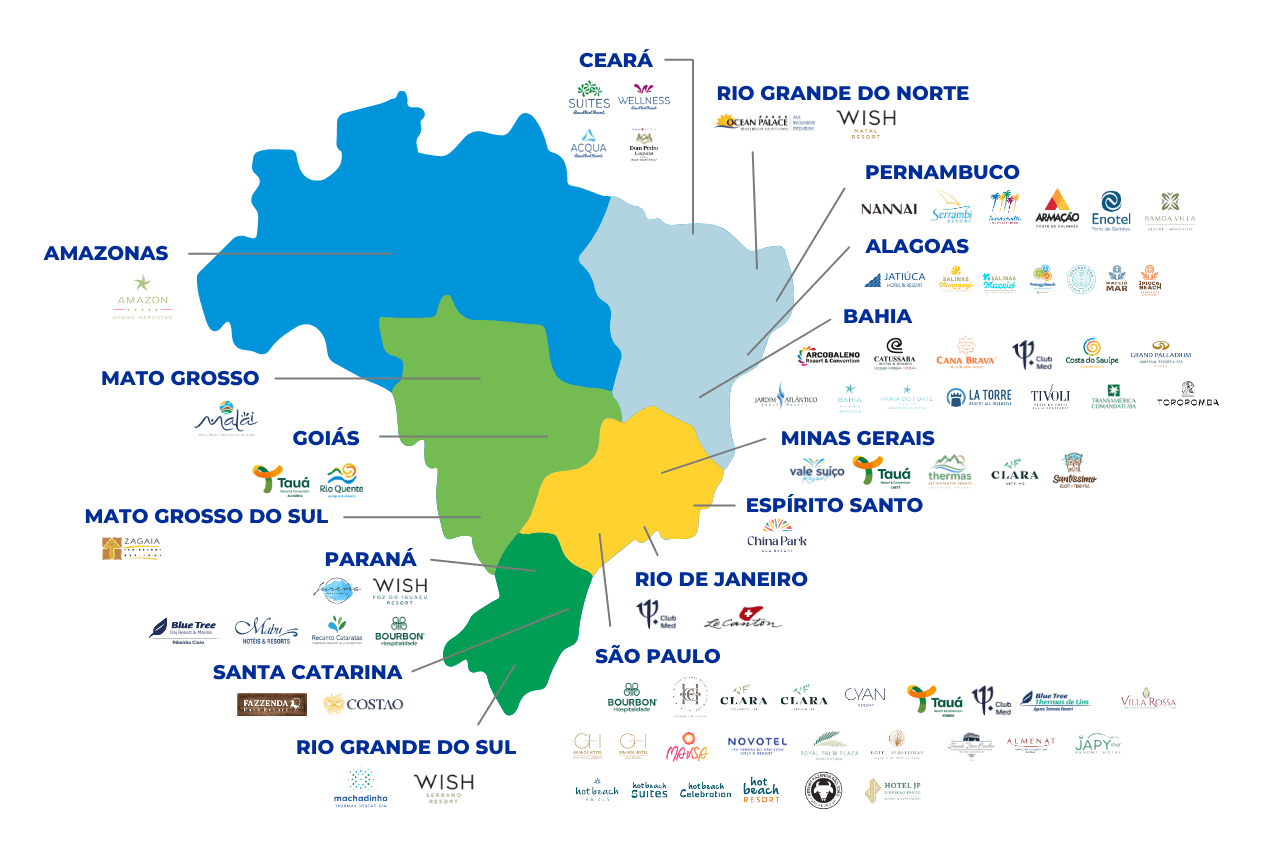
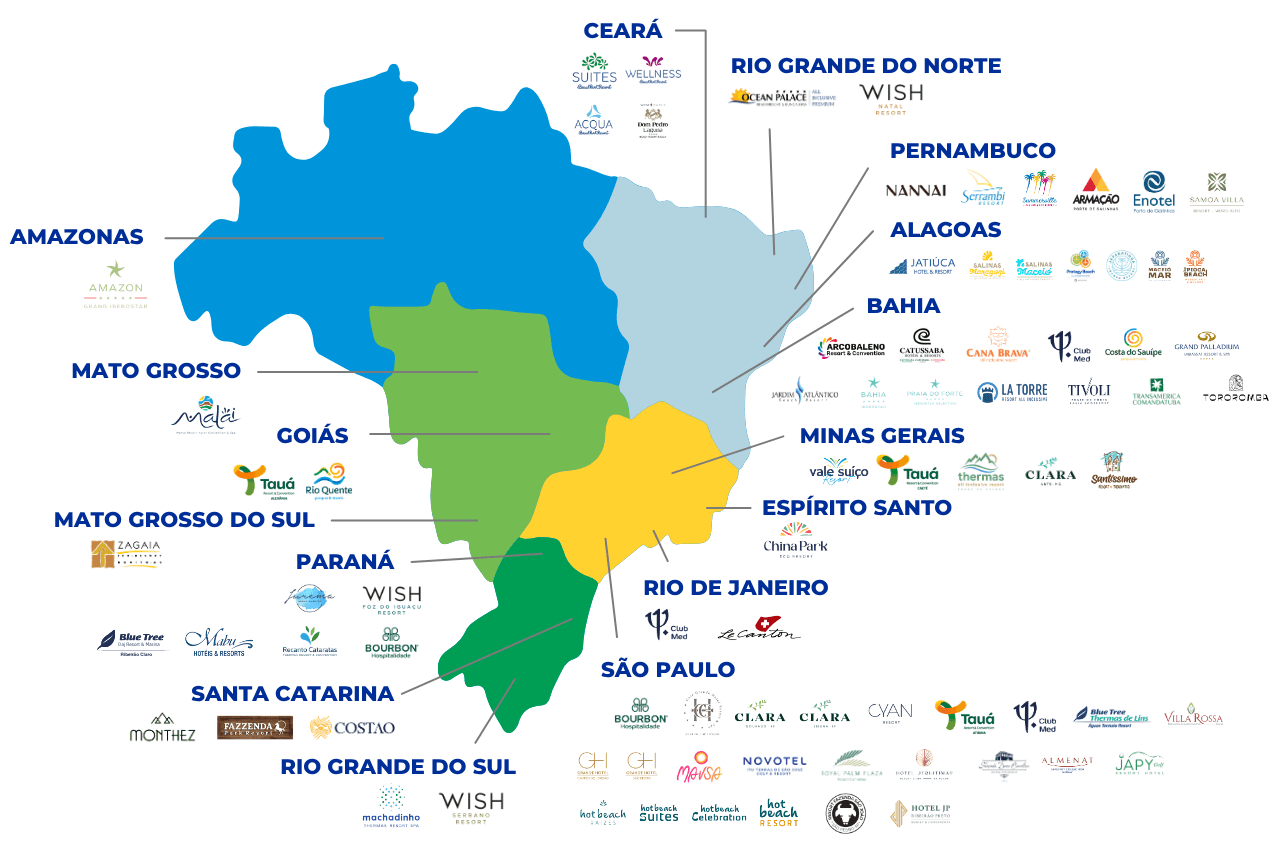
Monthez entra em Santa Catarina, e o mapa novo fez o peso cair
O logotipo ja estava no acervo sem nenhuma pagina pedindo por ele — era a
quinta orfa do relatorio de scripts/imagens.mjs. Agora tem dado atras: entra
em SC, depois do Fazzenda, e no carrossel da home entre Mavsa e Nannai. A
lista vai a 79 e o carrossel a 71.

O INDICADOR FICA EM 83. Ele nunca seguiu o tamanho da lista: os 83 sao os
associados que o cliente confirmou, os 79 sao os que tem logotipo publicado.
O comentario passa a dizer isso em voz alta, porque a proxima pessoa a mexer
aqui trataria a diferenca como bug e "consertaria" para 79.

A GRADE DE SC PASSA DE 6 PARA 4 COLUNAS. Com dois itens o escolherColunas
devolve o teto; com tres ele escolhe o degrau de menor sobra, e 4 deixa 1
contra 2 do 5 e 3 do 6. SC virou o primeiro estado com exatamente tres
resorts. E o componente funcionando como desenhado, mas aparece no diff.

O MAPA SUBSTITUIDO PESA 24% MAIS EM PNG E ENTREGA MUITO MENOS. Mesmas
dimensoes nos dois (1280x853, medido), entao nao e perda de resolucao: e PNG
que codifica melhor em AVIF. Sozinho ele economizou ~29 KB no mobile e ~59 KB
no desktop, absorvendo o logotipo novo com folga.

Dai o orcamento ter ido para o lado oposto do previsto. As tres homes
ganharam 983 bytes cada, as tres de associados perderam 28 KB no mobile e 58
KB no desktop, e o site inteiro caiu 247 KB. Base regravada com ATUALIZAR=1
para travar o peso menor.

Os seis portoes passaram: 69/69 comportamentais, geometria em 123 paginas x
[…]

diff --git a/src/data/associados.ts b/src/data/associados.ts
@@ -5,7 +5,7 @@
  * com ~600 linhas cada. Os dados nao tem variacao por idioma: as tres listas
  * eram identicas, 78 resorts na mesma ordem, com os nomes dos estados tambem em
  * portugues nos tres. O que traduz e o rotulo da aba, que fica em `ui`
- * (src/i18n/ui.ts).
+ * (src/i18n/ui.ts). Hoje sao 79: o Monthez (SC) entrou em 31/08/2026.
  *
  * A ordem deste arquivo e a ordem de exibicao.
  */
@@ -120,6 +120,7 @@ export const regioesAssociados: RegiaoAssociados[] = [
         resorts: [
           { nome: 'Costão do Santinho', logo: '/images/associados/costao-do-santinho.png', url: 'https://costao.com.br/' },
           { nome: 'Fazzenda park hotel', logo: '/images/associados/fazzenda-park-hotel.png', url: 'https://www.fazzenda.com.br/' },
+          { nome: 'Monthez', logo: '/images/associados/monthez.png', url: 'https://monthez.com.br/' },
         ],
       },
     ],
@@ -242,11 +243,15 @@ export const totalAssociados = regioesAssociados.reduce(
  * Os cinco indicadores do topo da pagina de associados.
  *
  * OS TRES IDIOMAS DIZIAM NUMEROS DIFERENTES: 83 resorts em portugues, 80 em
- * ingles e em espanhol, e a lista acima tem 78 logotipos. Tres numeros para o
+ * ingles e em espanhol, e a lista acima tinha 78 logotipos. Tres numeros para o
  * mesmo fato, cada um escrito a mao no markup do seu arquivo — a forma exata da
  * divergencia que este projeto ja viu no rotulo "Leia agora" e na lista de
- * parceiros. O cliente confirmou 83 como o valor correto; os 78 da lista sao os
+ * parceiros. O cliente confirmou 83 como o valor correto; os 79 da lista sao os
  * associados com logotipo publicado.
+ *
+ * ENTAO O `ate` NAO SEGUE O TAMANHO DA LISTA, e isso e de proposito: a lista
+ * cresce quando um logotipo e publicado, o indicador so muda quando o cliente
+ * confirmar outro numero. O Monthez entrou em 31/08/2026 e os 83 ficaram.
  *
  * Ficam aqui, e nao no `ui.ts`, porque numero nao traduz. E a mesma divisao do
  * `cargo` da diretoria e da data de vigencia dos documentos juridicos: o dado

diff --git a/src/data/carrossel-home.ts b/src/data/carrossel-home.ts
@@ -1,8 +1,13 @@
 /**
- * O carrossel de logos da home: 70 logos, contra os 78 de /associados.
+ * O carrossel de logos da home: 71 logos, contra os 79 de /associados.
  *
  * Nem todo associado aparece aqui — seis dos listados em /associados ficam de
  * fora. E uma selecao, nao a lista inteira.
+ *
+ * OS SEIS SAO A DIFERENCA ENTRE LOGOTIPOS DISTINTOS, e nao entre entradas: o
+ * `clubmed.png` aparece tres vezes em associados.ts (SP, RJ e BA), entao as 79
+ * entradas de la sao 77 arquivos, e 77 - 71 = 6. Quem quiser conferir a conta
+ * depois de acrescentar alguem tem de deduplicar pelo `logo`, nao contar linhas.
  *
  * Antes estava escrita a mao nas tres homes e ja havia divergido: o EN trocava
  * a ordem de dois logos e o PT e o EN ainda traziam o Wyndham Gramado, que
@@ -59,6 +64,7 @@ export const carrosselHome: (Omit<Resort, 'url'> & { url?: string })[] = [
   { nome: 'Maceió Mar All Inclusive Resort', logo: '/images/associados/maceio-mar.png', url: 'https://mmehoteis.com.br/maceio-mar-resort/' },
   { nome: 'malai manso resort', logo: '/images/associados/malai-manso-resort.png', url: 'https://www.malaimansoresort.com.br/' },
   { nome: 'Mavsa Resort', logo: '/images/associados/mavsa.png', url: 'https://mavsaresort.com/' },
+  { nome: 'Monthez', logo: '/images/associados/monthez.png', url: 'https://monthez.com.br/' },
   { nome: 'Nannai', logo: '/images/associados/nannai.png', url: 'https://www.nannai.com.br/muro-alto/' },
   { nome: 'Novotel Itu', logo: '/images/associados/novotel-itu.png', url: 'https://www.novotelitu.com.br/' },
   { nome: 'Ocean Palace', logo: '/images/associados/ocean-palace.png', url: 'https://www.oceanpalace.com.br/' },
